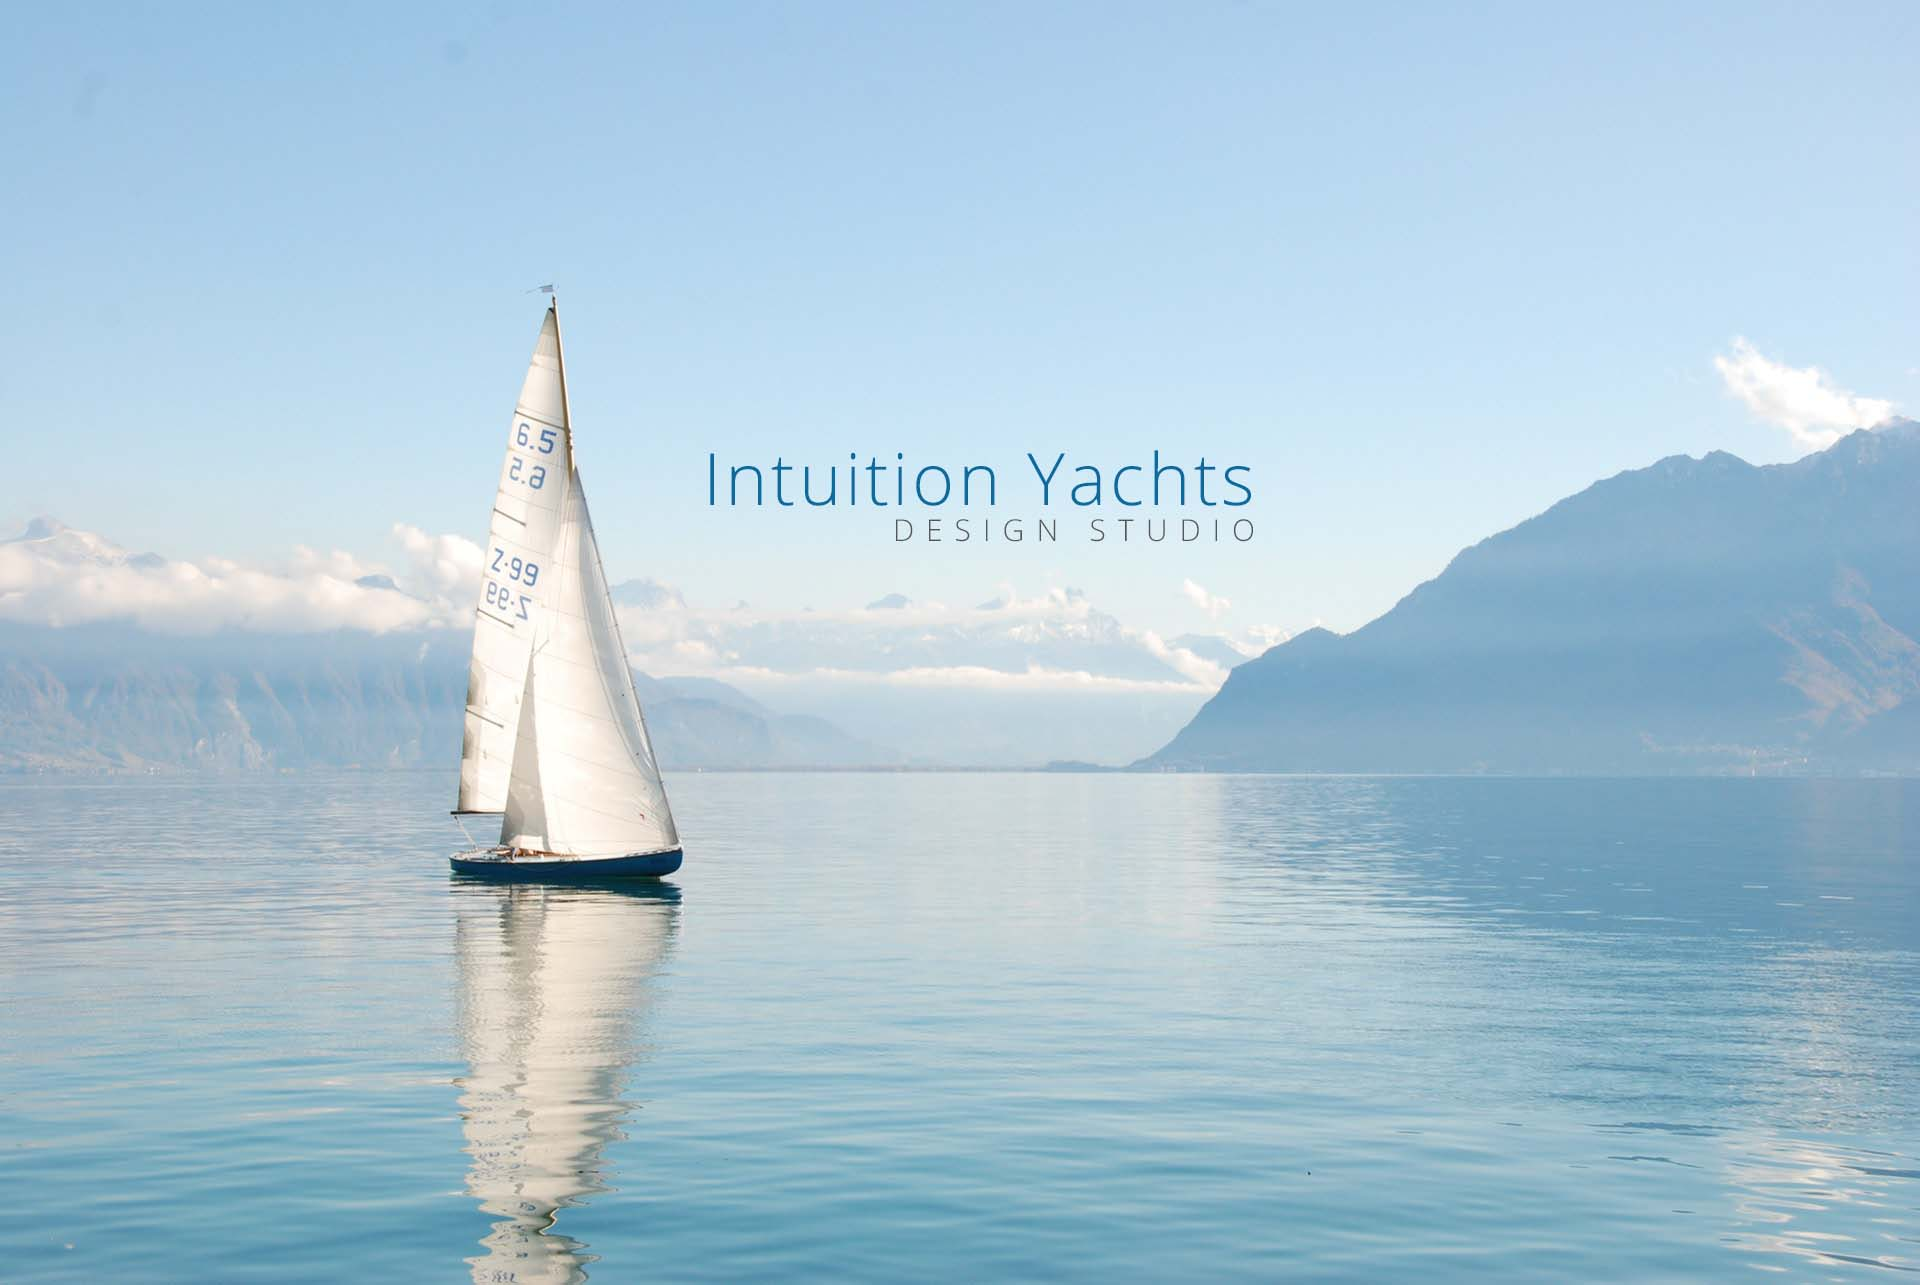
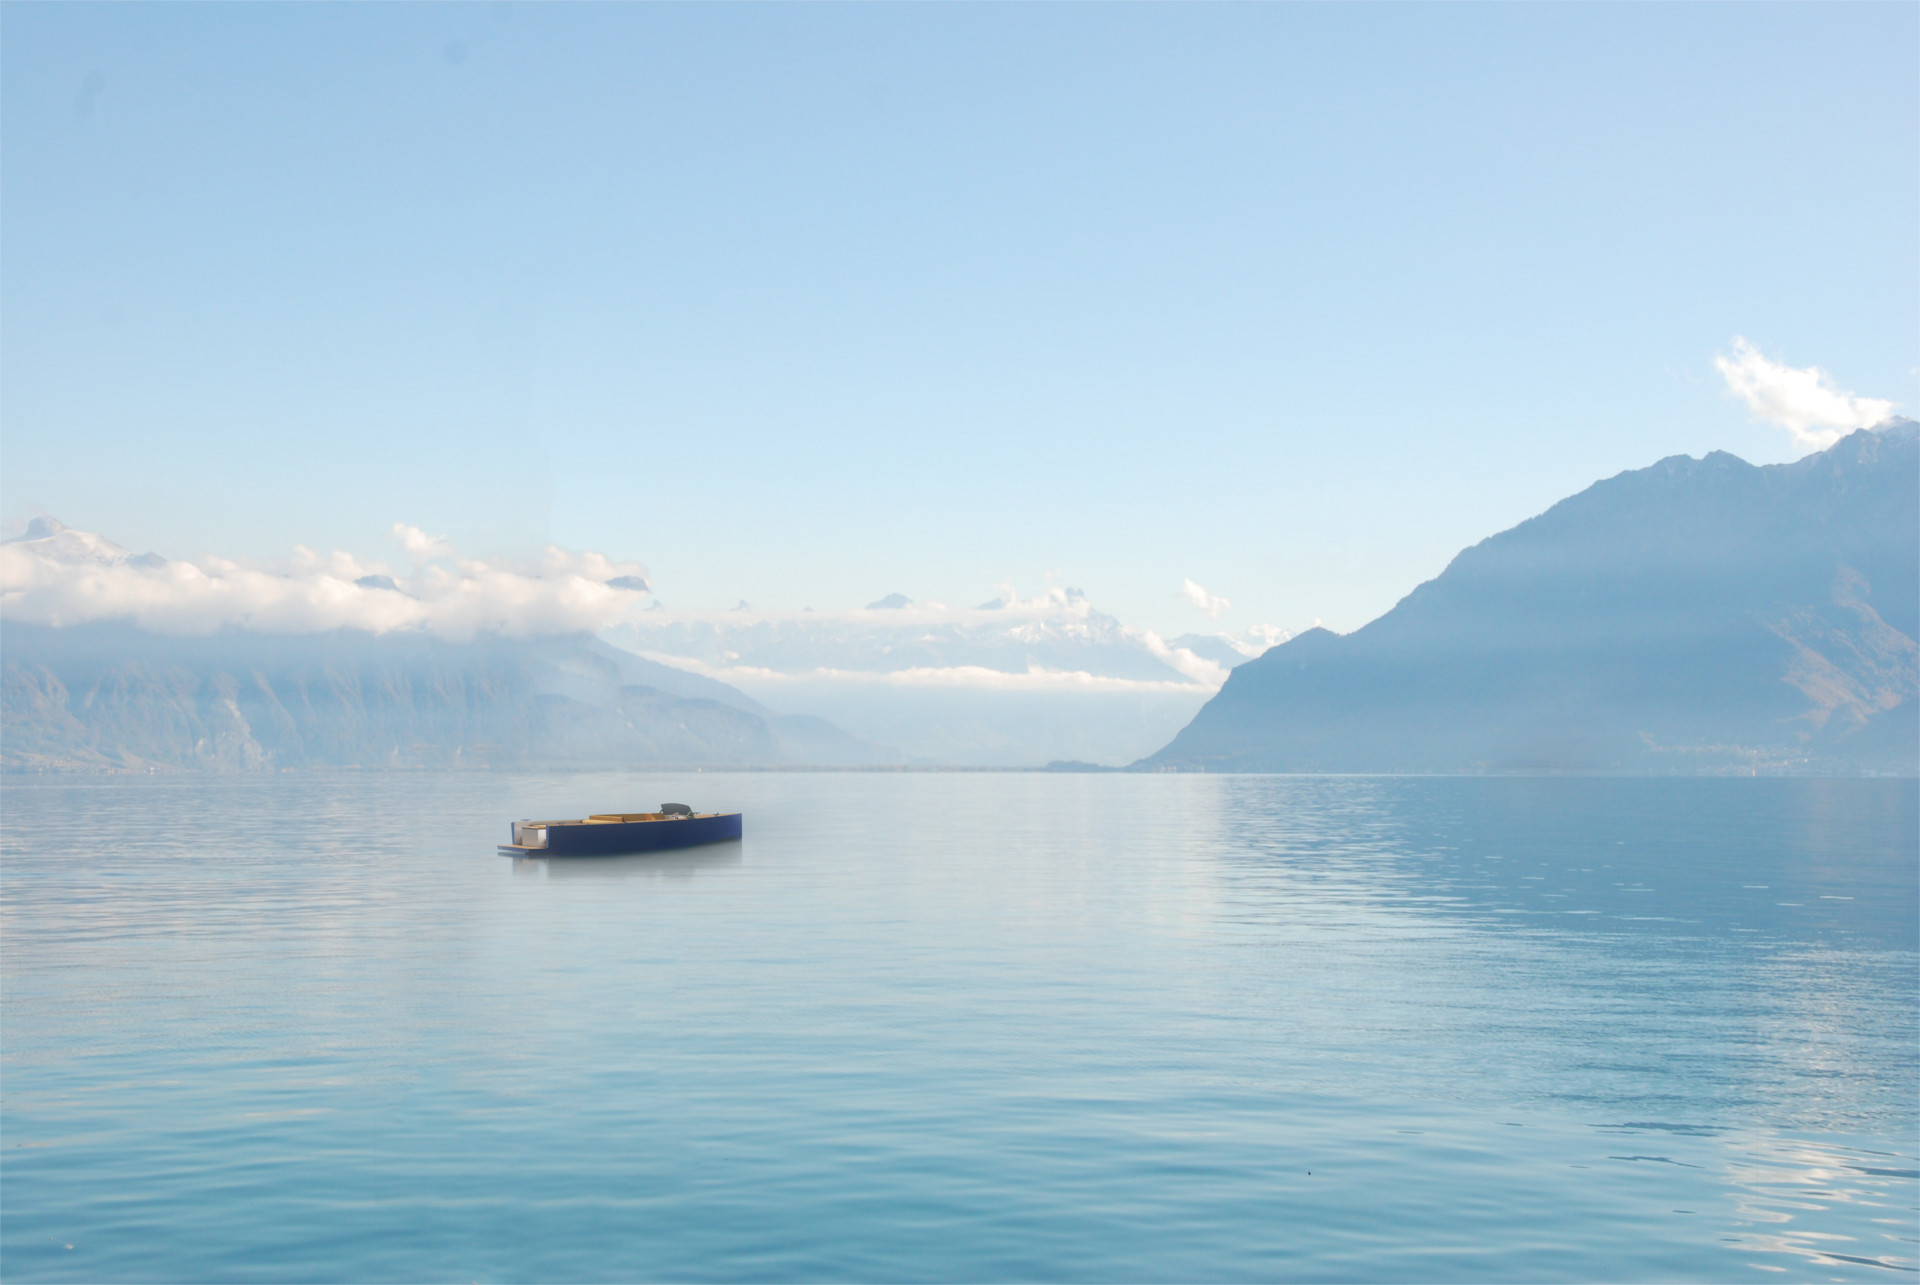
details + new contact added

diff --git a/translations/strings.ts b/translations/strings.ts
@@ -25,6 +25,14 @@ const strings: Strings = {
     subjectLabel: 'Subject',
     messageLabel: 'Message',
     sendButton: 'Send',
+
+    ['iboat-6-description']: 'A fast, comfortable 6-meter motorboat. Works perfectly for coastal recreation. The hull shape is a combination of a bit of the last century classics with dominant modernity style. Attractive, vivid colours and unusual spatial layout distinguish the boat among her class.',
+    ['iboat-7-description']: 'Concept of a speedboat dedicated to spend time on the water for larger group of people. Everyone will find there place for himself. A small recreational boat, but with a spacious modern interior. Slim shape, easy access to the water and big sunbathing area are just a few advantages of the presented construction.',
+    ['it-800-description']: 'Project from the "CUSTOM" series on the individual order of a private customer. Very ergonomic boat distinguished by high spatial comfort. Carefully designed styling, ideally suited to the taste and needs of the individual client. Appropriately lit and sufficiently spacious interior allows for a pleasant and comfortable rest inside the boat.',
+    ['itender-8-description']: '',
+    ['canna-description']: 'This is a project of a 5.5-meter long runabout. Details of construction will be revealed soon. Moreover building of the prototype will also start soon.',
+    ['eco-14-description']: 'ECO-14 is a conceptual design of a 14-meter ecological motor yacht with electric drive system. The main assumptions are recreational sailing on inland and coastal waters. The co-authors of the project are: Marta Zawadzka and Juliusz Strawiński.',
+
   },
   pl: {
     menuAbout: 'O nas',
@@ -51,6 +59,13 @@ const strings: Strings = {
     subjectLabel: 'Temat',
     messageLabel: 'Wiadomość',
     sendButton: 'Wyślij',
+
+    ['iboat-6-description']: 'Szybka, komfortowa łódź motorowa o długości 6 metrów. Idealna do rekreacji przybrzeżnej. Kształt kadłuba to połączenie odrobiny klasyki ubiegłego wieku z dominującą nutą nowoczesności. Odważne kolory oraz nietypowe rozplanowanie przestrzenne wyróżniają łódź wśród swojej klasy.',
+    ['iboat-7-description']: 'Koncepcja 7-metrowej łodzi motorowej przeznaczonej do spędzania czasu na wodzie większego grona osób. Każdy znajdzie sobie na niej swoje miejsce. Mała lecz z przestronnym, nowoczesnym wnętrzem łódź rekreacyjna. Smukła sylwetka, łatwe zejście do wody, dużo miejsca do opalania to tylko nieliczne jej atuty. ',
+    ['it-800-description']: 'Projekt z serii "CUSTOM" na indywidualne zamówienie prywatnego klienta. Bardzo ergonomiczna łódź wyróżniająca się wysokim komfortem przestrzennym. Starannie dopracowana stylizacja, idealnie dopasowana do gustu oraz potrzeb indywidualnego klienta. Odpowiednio doświetlone oraz dostatecznie przestronne wnętrze pozwala na przyjemny i komfortowy wypoczynek wewnątrz jednostki.',
+    ['itender-8-description']: '',
+    ['canna-description']: 'Jest to projekt 5,5-metrowej łodzi motorowej, której szczegóły zostaną ujawnione wkrótce. Już niedługo rusza również budowa prototypu.',
+    ['eco-14-description']: 'ECO-14 jest to projekt koncepcyjny 14-metrowego ekologicznego jachtu motorowego o napędzie elektrycznym. Głównymi założeniami jednostki jest rekreacyjna żegluga na drogach śródlądowych i przybrzeżnych. Współautorami projektu są: Marta Zawadzka i Juliusz Strawiński.',
   },
 };
 

diff --git a/pageComponents/projects/Project.tsx b/pageComponents/projects/Project.tsx
@@ -1,25 +1,40 @@
-import React from 'react';
+import React, { useContext } from 'react';
 import { PROJECTS } from './projects';
 import { LangProps } from '../../translations/types';
 import styles from './Projects.module.css';
+import { LocaleContext } from '../../context/LocaleContext';
 
 interface Props extends LangProps {
   id: string;
 }
 
-const Project: React.FC<Props> = ({ id, lang }) => {
+const Project: React.FC<Props> = ({ id }) => {
   const project = PROJECTS.find((p) => p.id === id);
+  const { t } = useContext(LocaleContext);
 
   return (
     <section>
       <div className="container">
         <h1 className="sectionTitle">{project.title}</h1>
         <hr />
-        <img
-          src={'/img/pages/projects/' + id + '.png'}
-          alt={project.title}
-          className={styles.imgBig}
-        />
+        <p>{t(id + '-description')}</p>
+        <div className={styles.gallery}>
+          {Array(project.images)
+            .fill(0)
+            .map((_, index) => (
+              <div className={styles.imageBoxContainer}>
+                <div className={styles.imageBox}>
+                  <a href={`/img/pages/projects/${id}/${index}.jpg`}>
+                    <img
+                      src={`/img/pages/projects/${id}/${index}.jpg`}
+                      alt={project.title}
+                      className={styles.image}
+                    />
+                  </a>
+                </div>
+              </div>
+            ))}
+        </div>
       </div>
     </section>
   );

diff --git a/pageComponents/contact/Content-pl.tsx b/pageComponents/contact/Content-pl.tsx
@@ -1,21 +1,34 @@
 import React from 'react';
+import styles from './Contact.module.css';
 
 export const ContentComponent: React.FC = () => {
   return (
     <>
+      <p className={styles.title}>
+        <div className={styles.lead}>Marta Anna Zawadzka </div>
+        <div className={styles.sub}>Naval Architect &amp; Yacht Designer</div>
+      </p>
       <p>
         <strong>Polska</strong>
         <br />
         Sokółki 63 <br />
         19-420 Sokółki <br />
         tel.: +48 500 204 025 <br />
+        woj. warmińsko-mazurskie
+        <br />
         e-mail: marta@intuition-yachts.com
       </p>
       <p>
-        <strong>Hiszpania</strong><br />
-        C/ Miquel Angel Riera 16/6A<br />
-        07004 Palma de Mallorca<br />
-        tel.: +34 604 331 861<br />
+        <strong>Hiszpania</strong>
+        <br />
+        Avenida Alejandro Rossello 15 2E
+        <br />
+        07002 Palma de Mallorca
+        <br />
+        Illes Balears
+        <br />
+        mobile: +34 604 331 861
+        <br />
         e-mail: studio@intuition-yachts.com
       </p>
     </>

diff --git a/pageComponents/contact/Content-en.tsx b/pageComponents/contact/Content-en.tsx
@@ -1,21 +1,34 @@
 import React from 'react';
+import styles from './Contact.module.css';
 
 export const ContentComponent: React.FC = () => {
   return (
     <>
+      <p className={styles.title}>
+        <div className={styles.lead}>Marta Anna Zawadzka </div>
+        <div className={styles.sub}>Naval Architect &amp; Yacht Designer</div>
+      </p>
       <p>
         <strong>Poland</strong>
         <br />
         Sokółki 63 <br />
         19-420 Sokółki <br />
         mobile: +48 500 204 025 <br />
+        woj. warmińsko-mazurskie
+        <br />
         e-mail: marta@intuition-yachts.com
       </p>
       <p>
-        <strong>Spain</strong><br />
-        C/ Miquel Angel Riera 16/6A<br />
-        07004 Palma de Mallorca<br />
-        mobile: +34 604 331 861<br />
+        <strong>Spain</strong>
+        <br />
+        Avenida Alejandro Rossello 15 2E
+        <br />
+        07002 Palma de Mallorca
+        <br />
+        Illes Balears
+        <br />
+        mobile: +34 604 331 861
+        <br />
         e-mail: studio@intuition-yachts.com
       </p>
     </>

diff --git a/pages/[lang]/index.tsx b/pages/[lang]/index.tsx
@@ -1,17 +1,17 @@
 import { locales } from '../../translations/config';
 import { LangProps } from '../../translations/types';
-import FullImage from '../../components/FullImage/FullImage';
 import About from '../../pageComponents/about/About';
 import { Variant } from '../../types/types';
 import Services from '../../pageComponents/services/Services';
 import Partners from '../../pageComponents/partners/Partners';
 import Projects from '../../pageComponents/projects/Projects';
 import Contact from '../../pageComponents/contact/Contact';
+import Intro from '../../pageComponents/intro/Intro';
 
 const Home: React.FC<LangProps> = ({ lang }) => {
   return (
     <>
-      <FullImage src="/img/layout/home.jpg" alt="home screen" />
+      <Intro />
       <About lang={lang} variant={Variant.SHORT} />
       <Services lang={lang} variant={Variant.SHORT} />
       <Projects lang={lang} />

diff --git a/pageComponents/projects/projects.ts b/pageComponents/projects/projects.ts
@@ -1,13 +1,14 @@
 export interface Project {
   id: string;
   title: string;
+  images: number;
 }
 
 export const PROJECTS: Project[] = [
-  { id: 'iboat-6', title: 'iBoat-6' },
-  { id: 'iboat-7', title: 'iBoat-7' },
-  { id: 'it-800', title: 'iT-800' },
-  { id: 'itender-8', title: 'iTender-8' },
-  { id: 'canna', title: 'Canna' },
-  { id: 'eco-14', title: 'ECO-14' },
+  { id: 'iboat-6', title: 'iBoat-6', images: 8 },
+  { id: 'iboat-7', title: 'iBoat-7', images: 5 },
+  { id: 'it-800', title: 'iT-800', images: 8 },
+  { id: 'itender-8', title: 'iTender-8', images: 0 },
+  { id: 'canna', title: 'Canna', images: 0 },
+  { id: 'eco-14', title: 'ECO-14', images: 0 },
 ];

diff --git a/pageComponents/contact/Contact.tsx b/pageComponents/contact/Contact.tsx
@@ -15,11 +15,11 @@ const Contact: React.FC<LangProps> = ({ lang }) => {
         <hr />
         <div className="columnContainer">
           <div className="column-1">
-            <h2 className="subsectionTitle">{t('contactDetails')}</h2>
+            <h2 className="subsectionTitle">{t('contactDetails')}:</h2>
             <ContentComponent />
           </div>
           <div className="column-1">
-            <h2 className="subsectionTitle">{t('contactForm')}</h2>
+            <h2 className="subsectionTitle">{t('contactForm')}:</h2>
             <input
               type="text"
               className={styles.input}

diff --git a/pageComponents/intro/Intro.module.css b/pageComponents/intro/Intro.module.css
@@ -1,0 +1,31 @@
+.imageContainer {
+  width: 100%;
+  height: 100%;
+  background-image: url('/img/layout/home.jpg');
+  background-position: center top;
+  background-size: cover;
+  margin-top: -100px;
+  justify-content: center;
+  align-items: center;
+  display: flex;
+}
+
+.logo {
+    font-weight: 300;
+    text-align: right;
+    margin-top: 20px;
+    margin-bottom: 21px;
+}
+
+.logo .lead {
+  color: #0b6a9e;
+  font-size: 60px;
+  line-height: 60px;
+}
+
+.logo .secondary {
+  font-size: 20px;
+  text-transform: uppercase;
+  letter-spacing: 8pt;
+  color: #99a2a7;
+}

diff --git a/pageComponents/projects/Projects.module.css b/pageComponents/projects/Projects.module.css
@@ -4,13 +4,25 @@
   padding-bottom: 50px;
 }
 
-.img {
-  width: 100%;
-  border: none;
+.gallery {
+  margin: 50px 0;
+  display: flex;
+  align-items: center;
+  justify-content: center;
+  flex-wrap: wrap;
 }
 
-.imgBig {
-    width: 100%;
-    border: none;
-    margin: 50px 0;
+.imageBoxContainer {
+  width: 33%;
+}
+
+.imageBox {
+  padding: 10px;
+  border: 1px solid #ccc;
+  margin: 10px;
+}
+
+.image {
+  border: none;
+  width: 100%;
 }

diff --git a/pageComponents/intro/Intro.tsx b/pageComponents/intro/Intro.tsx
@@ -1,0 +1,15 @@
+import React from 'react';
+import styles from './Intro.module.css';
+
+const Intro: React.FC = () => {
+  return (
+    <div className={styles.imageContainer}>
+      <div className={styles.logo}>
+        <div className={styles.lead}>Intuition Yachts</div>
+        <div className={styles.secondary}>Design Studio</div>
+      </div>
+    </div>
+  );
+};
+
+export default Intro;

diff --git a/pageComponents/contact/Contact.module.css b/pageComponents/contact/Contact.module.css
@@ -6,7 +6,7 @@
 }
 
 .container {
-  background-color: rgba(255, 255, 255, .75);
+  background-color: rgba(255, 255, 255, .9);
 }
 
 .input {
@@ -53,4 +53,18 @@
   position: relative;
   top: -100px;
   visibility: hidden;
+}
+
+.title {
+  /* text-align: center; */
+}
+
+.lead {
+  font-size: 36px;
+  font-weight: 300;
+}
+
+.sub {
+  font-size: 20px;
+  font-weight: 300;
 }
